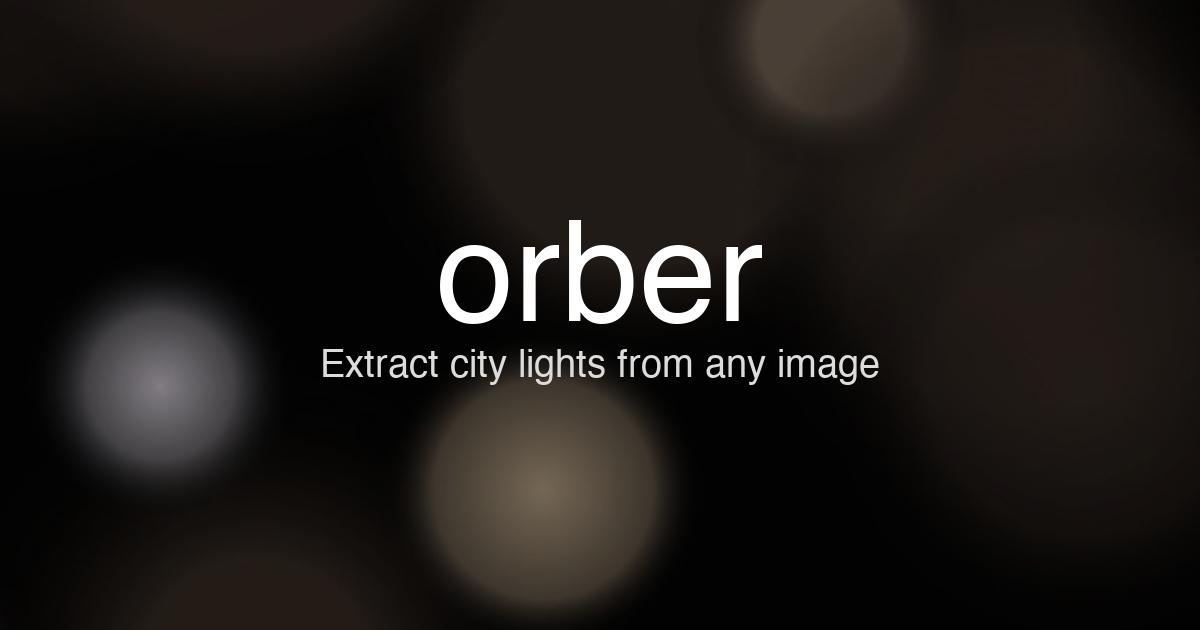
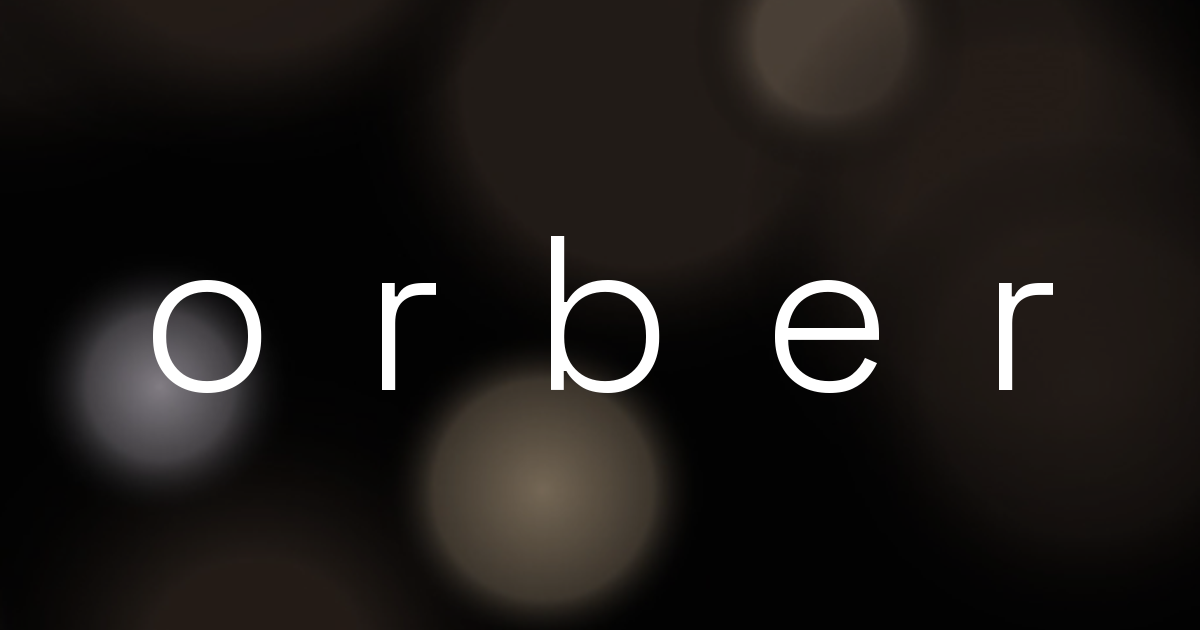
fix(web): kako-jun/orber#126 レビュー指摘 7 件を修正 + OGP タイトルをサイトロゴ仕様に統一
セルフレビュー対応:

【must】
- favicon.ico を multi-resolution に再生成 (16/24/32/48/64)。前版は
  Pillow に append_images で渡していたため 16x16 単一になっていた。
  source 画像 + sizes パラメータだけ渡す正しい呼び方に修正
- DESIGN.md §2 / tailwind.config.mjs の bg トークンを #000000 → #040404 に
  揃え、SOT を集約。site bg / manifest bg / theme-color / icon 地色 全て同値

【should】
- iOS 専用 meta を 3 つ追加 (apple-mobile-web-app-capable / -title /
  -status-bar-style)。manifest.display は iOS Safari 非対応なので、
  black-translucent で statusbar も #040404 と一体化
- og:image:alt / twitter:image:alt を追加（a11y、画像非表示環境）
- twitter:creator=@user_jun_42 を追加 (llll-ll 公式パターンに合わせる)
- icon-192-maskable.png を追加。Android adaptive icon が 192 で取りに行く
  経路で品質ロスを防ぐ
- manifest.webmanifest に id=/ を追加。W3C App Manifest §11.4 推奨、将来
  start_url を変えても同一アプリ扱いを保つ

【nit】
- web/public/_headers (Cloudflare Pages) を新規作成。manifest.webmanifest
  を application/manifest+json で配信、画像群は 1 週間 immutable キャッシュ

【追加: kako-jun フィードバック対応】
- og-image.png を再生成。副題を削除、タイトル「orber」をサイトトップ
  (index.astro の h1) と完全同仕様に統一: Space Grotesk Light (300) /
  letter-spacing 0.4em / lowercase / white / 上下左右センタリング。
  Google Fonts から Space Grotesk Light TTF を取得し PIL で 1 文字ずつ
  描画して 0.4em tracking を再現、視覚 bbox ベースで H/V 中央配置

Changed region(s): [[0.2467, 0.3317, 0.74, 0.6333], [0.1233, 0.4222, 0.2158, 0.6333], [0.8325, 0.4524, 0.8942, 0.6333]]

diff --git a/DESIGN.md b/DESIGN.md
@@ -14,7 +14,7 @@ No accent color. The generated artwork supplies all color; the chrome stays in m
 
 | Token            | Value                       | Usage                                                   |
 | ---------------- | --------------------------- | ------------------------------------------------------- |
-| `bg`             | `#000000`                   | Page / canvas background                                |
+| `bg`             | `#040404`                   | Page / canvas background. PWA splash / theme-color / manifest と同値（icon 右上 1px の実測値で SOT 集約） |
 | `fg`             | `#FFFFFF`                   | Primary text, logo, active control text                 |
 | `fg-muted`       | `rgba(255,255,255,0.55)`    | Subtitle, status text, inactive control text            |
 | `fg-subtle`      | `rgba(255,255,255,0.32)`    | Placeholder text, disabled label                        |